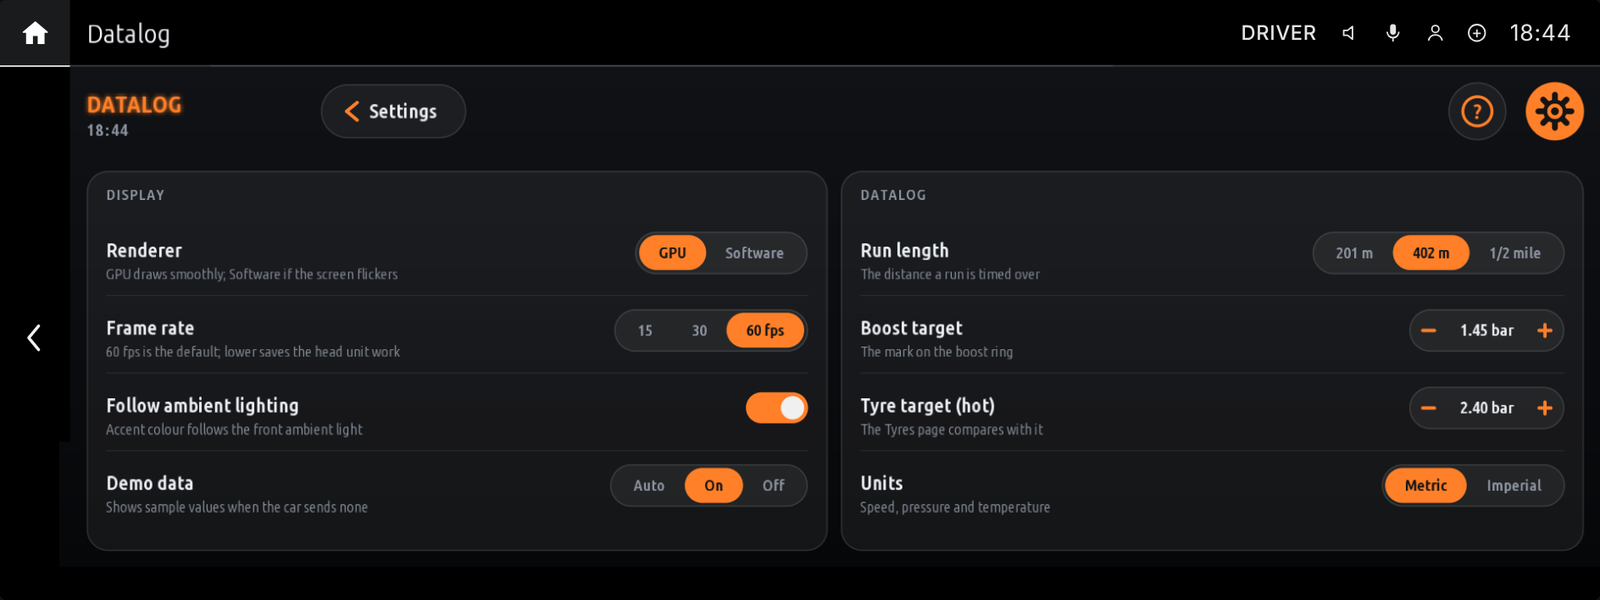
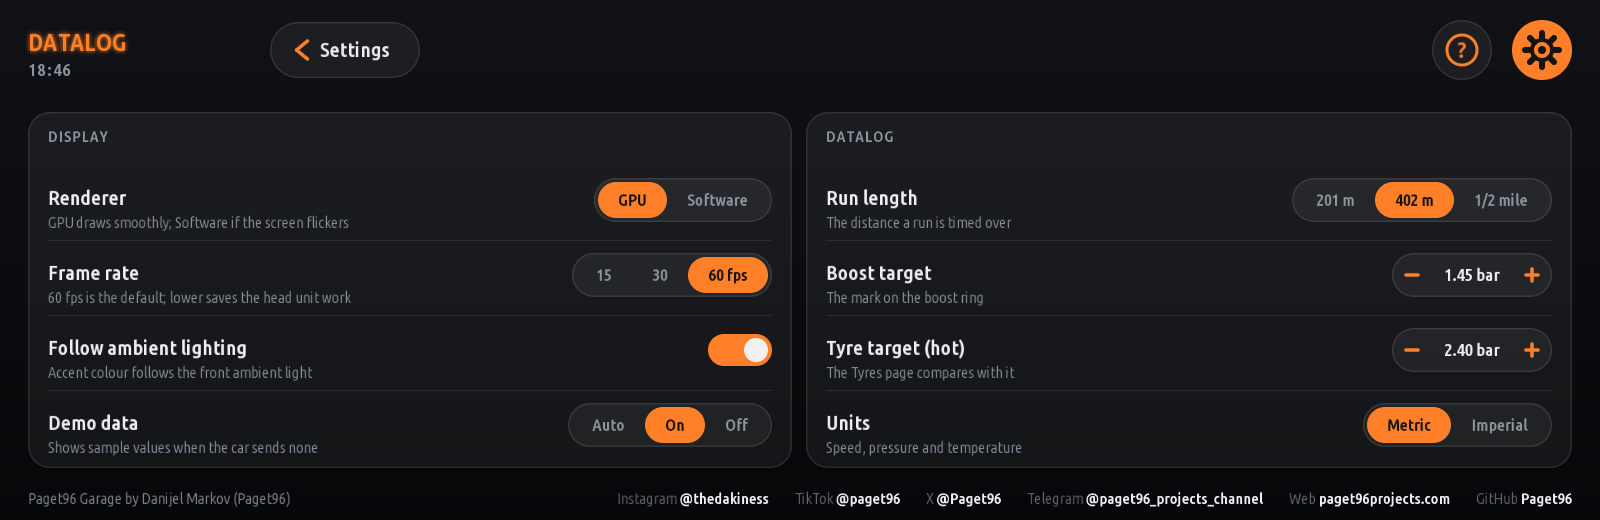
Show the maker and his links in every app and the README
Settings now ends with a line naming Paget96 Garage's maker and his user names on each network (the car cannot
open a link, so names only); the README gets the same as links. Setting rows now centre their name and hint in
any row count, so five rows no longer run into the dividers.

diff --git a/lib/ui.js b/lib/ui.js
@@ -879,6 +879,16 @@ function backPill(cv, label, onBack) {
 
 /** The credit every copy keeps (NOTICE, term 1). */
 const CREDIT = 'Paget96 Garage by Danijel Markov (Paget96)';
+/** Where to find the maker (owner, 2026-11-26 19:06): shown at the bottom of every Settings page and in the README.
+ * The car cannot open a link, so only the user name on each network is shown (owner, 19:12); the README has the links. */
+const LINKS = [
+    ['Instagram', '@thedakiness'],
+    ['TikTok', '@paget96'],
+    ['X', '@Paget96'],
+    ['Telegram', '@paget96_projects_channel'],
+    ['Web', 'paget96projects.com'],
+    ['GitHub', 'Paget96'],
+];
 
 /**
  * The How to use page (owner, 2026-11-26): a back pill "How to use" in place of the tabs, the ? button lit,
@@ -950,6 +960,8 @@ function stepValue(row, v, dir) {
     const n = Math.round((v + dir * st) * Math.pow(10, d)) / Math.pow(10, d);
     return G.clamp(n, row.min == null ? -Infinity : row.min, row.max == null ? Infinity : row.max);
 }
+/** Where a row's name sits in a row of this pitch: the name and its hint centred, clear of the divider at any row count. */
+function rowLabelY(pitch) { return Math.round((pitch - 3) / 2 + 1); }
 /** One card of setting rows: names and hints cached, the controls right aligned. */
 function settingsCard(cv, x, y, w, h, label, rows, values, onChange) {
     const pitch = Math.min(80, Math.floor((h - 56) / Math.max(1, rows.length)));
@@ -957,14 +969,14 @@ function settingsCard(cv, x, y, w, h, label, rows, values, onChange) {
         glass(c, 0, 0, w, h);
         cardFace(c, w, label, false);
         rows.forEach((r, i) => {
-            const yy = 56 + i * pitch;
-            c.text(r.label, 20, yy + 33, 20, C.text, { font: 'bold' });
-            if (r.hint) c.text(r.hint, 20, yy + 56, 15, C.dim);
-            if (i < rows.length - 1) c.fillRect(20, yy + pitch - 8, w - 40, 1, '#282c34');
+            const yy = 56 + i * pitch, ly = rowLabelY(pitch);
+            c.text(r.label, 20, yy + ly, 20, C.text, { font: 'bold' });
+            if (r.hint) c.text(r.hint, 20, yy + ly + 23, 15, C.dim);
+            if (i < rows.length - 1) c.fillRect(20, yy + pitch - 3, w - 40, 1, '#282c34');
         });
     }, cv.textScale), x, y);
     rows.forEach((r, i) => {
-        const cy = y + 56 + i * pitch + 28, right = x + w - 20;
+        const cy = y + 56 + i * pitch + rowLabelY(pitch) - 5, right = x + w - 20;
         const v = values && values[r.key] !== undefined ? values[r.key] : r.default;
         const set = (nv) => { if (onChange) onChange(r.key, nv); };
         if (r.type === 'bool') toggle(cv, right, cy, !!v, set, 'set|' + r.key);
@@ -987,8 +999,25 @@ function settingsPage(cv, appRows, values, onChange, opts) {
     if (opts.title) title(cv, opts.title);
     header(cv, { status: '', lit: 'settings', onHelp: opts.onHelp, onSettings: opts.onBack });
     const has = appRows && appRows.length, lw = has ? 764 : (cv.w || W) - 2 * MARGIN;
-    settingsCard(cv, MARGIN, CONTENT_TOP, lw, 392, 'Display', DISPLAY_SETTINGS, values, onChange);
-    if (has) settingsCard(cv, MARGIN + lw + 14, CONTENT_TOP, (cv.w || W) - 2 * MARGIN - lw - 14, 392, opts.appLabel || opts.title || 'This app', appRows, values, onChange);
+    settingsCard(cv, MARGIN, CONTENT_TOP, lw, 356, 'Display', DISPLAY_SETTINGS, values, onChange);
+    if (has) settingsCard(cv, MARGIN + lw + 14, CONTENT_TOP, (cv.w || W) - 2 * MARGIN - lw - 14, 356, opts.appLabel || opts.title || 'This app', appRows, values, onChange);
+    makerLine(cv, CONTENT_TOP + 356 + 30);
+}
+/** The maker line under the Settings cards: the credit on the left, the links on the right (cached once). */
+function makerLine(cv, cy) {
+    const w = (cv.w || W) - 2 * MARGIN;
+    cv.blit(G.layer('p96maker|' + w, w, 30, (c) => {
+        c.text(CREDIT, 0, 21, 15, '#8a909a', { literal: true });
+        let x = w;
+        for (let i = LINKS.length - 1; i >= 0; i--) {
+            const v = LINKS[i][1], k = LINKS[i][0] + ' ';
+            x -= c.textWidth(v, 15, { font: 'bold', literal: true });
+            c.text(v, x, 21, 15, C.text, { font: 'bold', literal: true });
+            x -= c.textWidth(k, 15, { literal: true });
+            c.text(k, x, 21, 15, '#646a74', { literal: true });
+            x -= 26;
+        }
+    }, cv.textScale), MARGIN, cy - 15);
 }
 
 /* ---------- the info popup ---------- */
@@ -1125,7 +1154,7 @@ function dialog(cv, d, t, opts) {
 
 module.exports = {
     dialog, dialogButton,
-    W, H, MARGIN, HEAD_CY, TITLE_CY, CLOCK_CY, CONTENT_TOP, C, STATUS, CREDIT, DISPLAY_SETTINGS, DISPLAY_DEFAULTS,
+    W, H, MARGIN, HEAD_CY, TITLE_CY, CLOCK_CY, CONTENT_TOP, C, STATUS, CREDIT, LINKS, DISPLAY_SETTINGS, DISPLAY_DEFAULTS,
     background, title, clock, tabs, nextTab, header, iconButton, backPill, status, glass, card, stat, cylinders, spark, curve, smoothPts, bar, ring, pill, chart, dualChart,
     button, segmented, toggle, stepper, settingsPage, howToUse, infoPopup, openInfo, closeInfo, overlay,
     niceRange, fmtTick, wrap, anim, glide, glowRoundRect, glowArc, glowText,

diff --git a/README.md b/README.md
@@ -13,6 +13,15 @@ installed and updated from the MGU Store.
 > Nothing has been tested on a car yet, so
 > treat everything here as a preview until the first release.
 
+**Made by Danijel Markov (Paget96).** Follow the work and talk to us:
+[Instagram](https://www.instagram.com/thedakiness/) ·
+[TikTok](https://www.tiktok.com/@paget96) ·
+[X](https://x.com/Paget96) ·
+[Telegram channel](https://t.me/paget96_projects_channel) ·
+[Telegram group](https://t.me/Paget96_Projects) ·
+[paget96projects.com](https://paget96projects.com) ·
+[GitHub](https://github.com/Paget96)
+
 ## Contents
 
 - [Install](#install)
@@ -20,6 +29,7 @@ installed and updated from the MGU Store.
 - [How every app works](#how-every-app-works)
 - [Building](#building)
 - [Contributing](#contributing)
+- [Follow](#follow)
 - [Credits](#credits)
 - [Disclaimer](#disclaimer)
 - [License](#license)
@@ -430,6 +440,22 @@ Issues and pull requests are welcome. Anything that is useful beyond Paget96 Gar
 new signal) goes to [idrive7-apps](https://github.com/cauliflowermossgrape/idrive7-apps) as a pull
 request first, and comes here with the next kit sync. App ids start with `p96_`. Text never uses
 an em dash or an en dash.
+
+## Follow
+
+New apps, videos from the car and early builds show up here first:
+
+| | |
+|---|---|
+| Instagram | [@thedakiness](https://www.instagram.com/thedakiness/) |
+| TikTok | [@paget96](https://www.tiktok.com/@paget96) |
+| X | [@Paget96](https://x.com/Paget96) |
+| Telegram channel | [paget96_projects_channel](https://t.me/paget96_projects_channel) |
+| Telegram group, for questions | [Paget96_Projects](https://t.me/Paget96_Projects) |
+| Web | [paget96projects.com](https://paget96projects.com) |
+| GitHub | [Paget96](https://github.com/Paget96) |
+
+The same names are at the bottom of every app's Settings page.
 
 ## Credits
 
